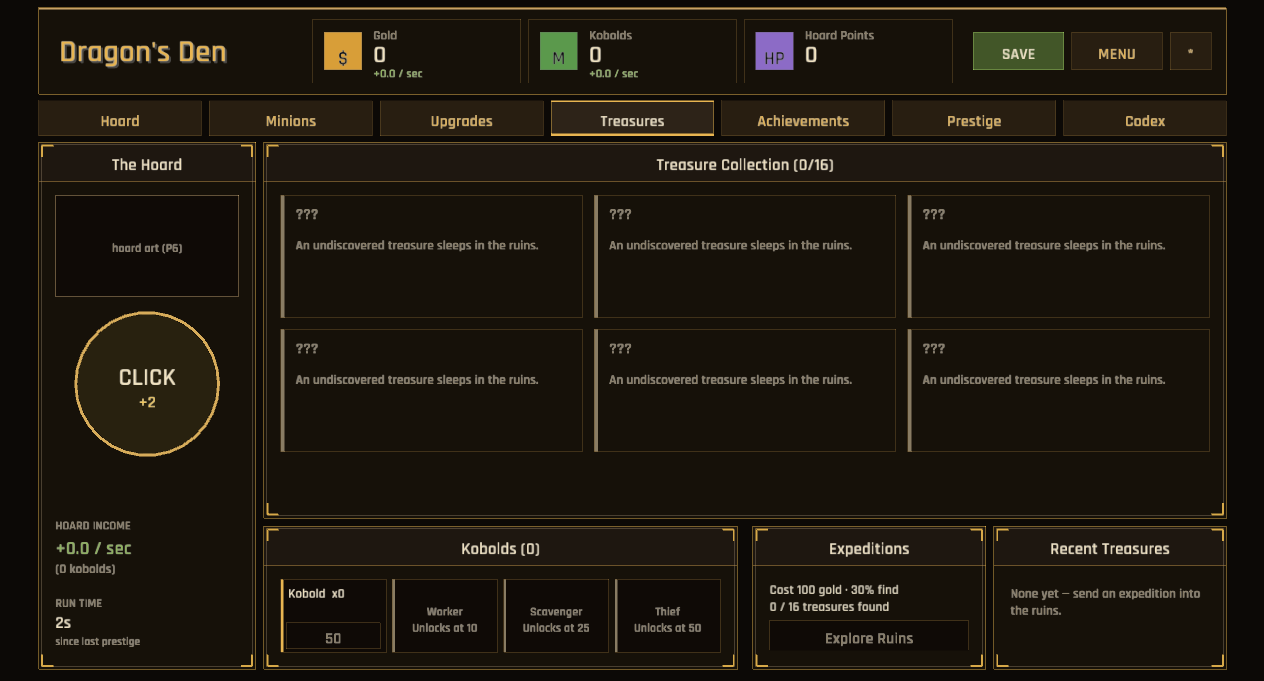
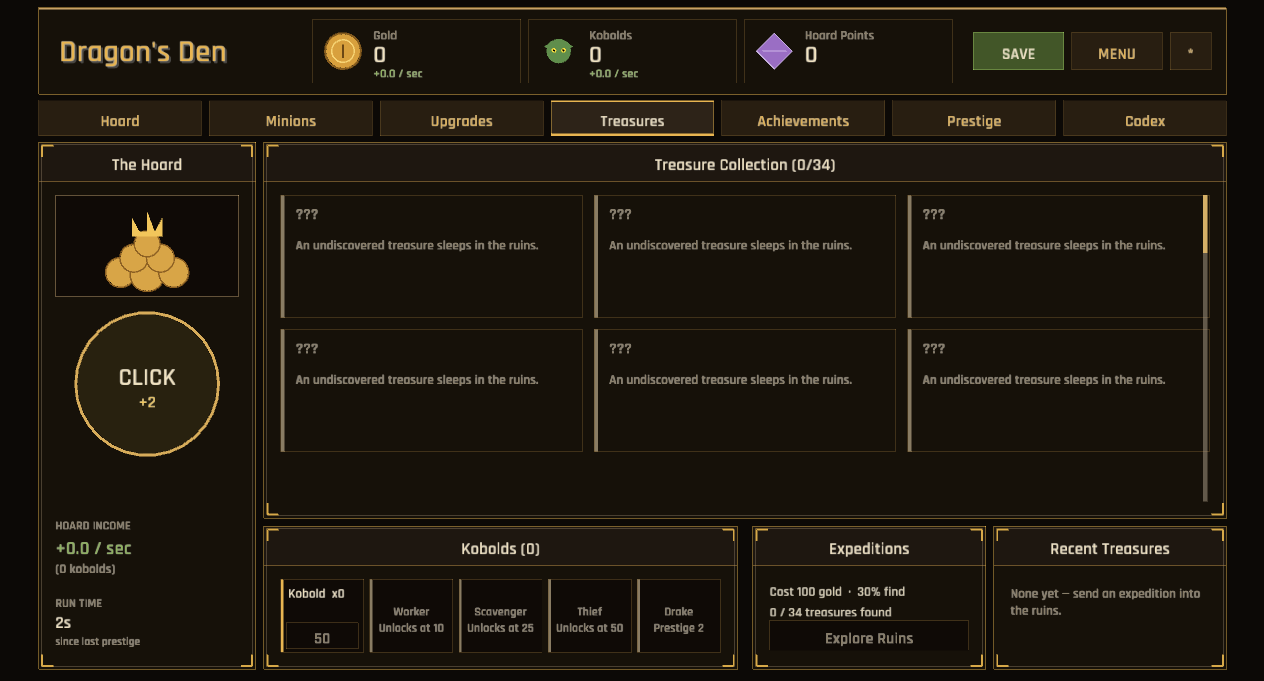
Engagement Tier 2 #8: treasure long tail — prestige-gated Mythic tier
Exploration's treasure set was a 16-item, five-minute sweep with no chase
past the early game. Extend it into a long tail that reopens after every
prestige.

- Catalog 16 -> 34 treasures with a new prestige-gated Mythic rarity
  (rose-pink badge). Deepened the ungated common/rare/epic/legendary pools
  so the base sweep lasts longer, then added 7 Mythics gated across
  prestige 1-4 — including the first `all_gold` treasures (+10/+20/+35%),
  the strongest finds in the game.
- New TreasureDef.prestige_required (serde default 0 → every existing
  treasure ungated, old saves loadable). roll_treasure now filters the
  pool to unlocked+undiscovered; an exhausted-but-gated pool reports
  AllDiscovered ("nothing within reach") so the button waits for the next
  prestige rather than dead-ending.
- Treasures tab renders gated finds as "Sealed · <rarity> · Reach Prestige
  N", turning the tail into a visible chase. AllDiscovered toast reworded
  to stay accurate while gated tiers remain.
- "Treasure Hoarder" achievement retuned 16 → 34 (reward 5 → 25 HP): now a
  genuine prestige-4 capstone instead of an early freebie.

This completes Tier 2. Validation: cargo test (42, incl. a new gating test
asserting the pool locks below the gate and reveals at/above it), clippy,
fmt all clean; balance guards stay green (treasures never enter the sim).
Treasures tab captured (fresh top-of-list committed; Mythic tier verified
via a throwaway scroll seed, reverted) — cards read cleanly, no overflow.

diff --git a/src/simulation/exploration.rs b/src/simulation/exploration.rs
@@ -1,6 +1,8 @@
 //! Expedition treasure rolls (GDD §5.3): a discovery-chance gate, then a
-//! rarity-weighted pick among *undiscovered* treasures — fixing the
-//! original's flat uniform pick that ignored its own rarity tiers.
+//! rarity-weighted pick among *undiscovered, currently-unlocked* treasures —
+//! fixing the original's flat uniform pick that ignored its own rarity tiers.
+//! Prestige-gated finds (#8) only enter the pool once enough hoards are burned,
+//! giving exploration a long tail that reopens after every prestige.
 
 use crate::data::TreasureDef;
 use macroquad_toolkit::rng::SeededRng;
@@ -18,28 +20,33 @@ pub fn roll_treasure<'a>(
     rng: &mut SeededRng,
     treasures: &'a [TreasureDef],
     discovered: &[String],
+    prestige_count: u32,
     chance: f64,
 ) -> ExploreOutcome<'a> {
-    let undiscovered: Vec<&TreasureDef> = treasures
+    // The pool is treasures that are both unlocked at the current prestige and
+    // not yet in the hoard. An exhausted pool with gated finds still remaining
+    // reports `AllDiscovered` — "nothing within reach right now" — so the button
+    // stays quiet until the next prestige reopens it.
+    let available: Vec<&TreasureDef> = treasures
         .iter()
-        .filter(|def| !discovered.contains(&def.id))
+        .filter(|def| def.prestige_required <= prestige_count && !discovered.contains(&def.id))
         .collect();
-    if undiscovered.is_empty() {
+    if available.is_empty() {
         return ExploreOutcome::AllDiscovered;
     }
     if f64::from(rng.next_f32()) >= chance {
         return ExploreOutcome::NothingFound;
     }
 
-    let total_weight: u32 = undiscovered.iter().map(|def| def.drop_weight).sum();
+    let total_weight: u32 = available.iter().map(|def| def.drop_weight).sum();
     let mut roll = rng.below(total_weight.max(1) as usize) as u32;
-    for def in &undiscovered {
+    for def in &available {
         if roll < def.drop_weight {
             return ExploreOutcome::Found(def);
         }
         roll -= def.drop_weight;
     }
-    ExploreOutcome::Found(undiscovered[undiscovered.len() - 1])
+    ExploreOutcome::Found(available[available.len() - 1])
 }
 
 #[cfg(test)]
@@ -53,7 +60,7 @@ mod tests {
         let mut rng = SeededRng::new(7);
         let discovered = vec!["common_stone".to_owned()];
 
-        match roll_treasure(&mut rng, &data.treasures, &discovered, 1.0) {
+        match roll_treasure(&mut rng, &data.treasures, &discovered, 0, 1.0) {
             ExploreOutcome::Found(def) => assert_ne!(def.id, "common_stone"),
             other => panic!("expected a find, got {:?}", other),
         }
@@ -64,7 +71,7 @@ mod tests {
         let data = GameData::load().unwrap();
         let mut rng = SeededRng::new(7);
         assert_eq!(
-            roll_treasure(&mut rng, &data.treasures, &[], 0.0),
+            roll_treasure(&mut rng, &data.treasures, &[], 0, 0.0),
             ExploreOutcome::NothingFound
         );
     }
@@ -75,8 +82,51 @@ mod tests {
         let mut rng = SeededRng::new(7);
         let discovered: Vec<String> = data.treasures.iter().map(|d| d.id.clone()).collect();
         assert_eq!(
-            roll_treasure(&mut rng, &data.treasures, &discovered, 1.0),
+            roll_treasure(&mut rng, &data.treasures, &discovered, u32::MAX, 1.0),
             ExploreOutcome::AllDiscovered
+        );
+    }
+
+    #[test]
+    fn prestige_gate_locks_treasures_until_enough_prestige() {
+        let data = GameData::load().unwrap();
+        // The lowest positive gate in the catalog, and every ungated treasure.
+        let gate = data
+            .treasures
+            .iter()
+            .map(|t| t.prestige_required)
+            .filter(|&p| p > 0)
+            .min()
+            .expect("catalog should include prestige-gated treasures");
+        let ungated: Vec<String> = data
+            .treasures
+            .iter()
+            .filter(|t| t.prestige_required == 0)
+            .map(|t| t.id.clone())
+            .collect();
+
+        // Below the gate, the reachable pool is exhausted → AllDiscovered.
+        let mut rng = SeededRng::new(1);
+        assert_eq!(
+            roll_treasure(&mut rng, &data.treasures, &ungated, gate - 1, 1.0),
+            ExploreOutcome::AllDiscovered
+        );
+
+        // At the gate, the newly-unlocked tier becomes findable.
+        let mut rng = SeededRng::new(2);
+        let mut found_gated = false;
+        for _ in 0..200 {
+            if let ExploreOutcome::Found(def) =
+                roll_treasure(&mut rng, &data.treasures, &ungated, gate, 1.0)
+            {
+                assert!(def.prestige_required <= gate);
+                found_gated = true;
+                break;
+            }
+        }
+        assert!(
+            found_gated,
+            "a gated treasure should be findable once unlocked"
         );
     }
 
@@ -87,7 +137,9 @@ mod tests {
         let mut common = 0;
         let mut legendary = 0;
         for _ in 0..500 {
-            if let ExploreOutcome::Found(def) = roll_treasure(&mut rng, &data.treasures, &[], 1.0) {
+            if let ExploreOutcome::Found(def) =
+                roll_treasure(&mut rng, &data.treasures, &[], 0, 1.0)
+            {
                 match def.id.as_str() {
                     "common_stone" => common += 1,
                     "golden_goblet" => legendary += 1,

diff --git a/src/ui/treasures.rs b/src/ui/treasures.rs
@@ -13,6 +13,7 @@ pub(crate) fn rarity_color(rarity: Rarity) -> Color {
         Rarity::Rare => Color::new(0.35, 0.55, 0.95, 1.0),
         Rarity::Epic => Color::new(0.65, 0.40, 0.90, 1.0),
         Rarity::Legendary => Color::new(0.95, 0.72, 0.35, 1.0),
+        Rarity::Mythic => Color::new(0.98, 0.38, 0.52, 1.0),
     }
 }
 
@@ -66,6 +67,34 @@ pub fn draw(ctx: &GameplayCtx<'_>, rect: Rect, actions: &mut Vec<UiAction>) {
             );
             draw_text_block(
                 &format!("{}\n{}", def.description, ui::effect_text(&def.effect)),
+                card.x + 16.0,
+                card.y + 68.0,
+                card.w - 32.0,
+                h - 76.0,
+                14.0,
+                4.0,
+                theme::TEXT_DIM,
+            );
+        } else if def.prestige_required > ctx.state.persistent.prestige_count {
+            // Gated (#8): reveal the rarity and the prestige needed, so the
+            // long tail reads as a visible chase rather than a blank mystery.
+            draw_ui_text_ex(
+                "Sealed",
+                card.x + 16.0,
+                card.y + 26.0,
+                TextStyle::new(17.0, theme::TEXT_DIM).params(),
+            );
+            draw_badge(
+                Rect::new(card.x + 16.0, card.y + 38.0, 96.0, 24.0),
+                def.rarity.label(),
+                rarity_color(def.rarity),
+                Color::new(0.05, 0.05, 0.06, 1.0),
+            );
+            draw_text_block(
+                &format!(
+                    "Sealed in deeper ruins.\nReach Prestige {} to uncover it.",
+                    def.prestige_required
+                ),
                 card.x + 16.0,
                 card.y + 68.0,
                 card.w - 32.0,

diff --git a/src/data/treasures.rs b/src/data/treasures.rs
@@ -10,6 +10,9 @@ pub enum Rarity {
     Rare,
     Epic,
     Legendary,
+    /// Prestige-gated top tier (engagement review #8): the strongest finds, only
+    /// reachable once the player has burned enough hoards.
+    Mythic,
 }
 
 impl Rarity {
@@ -19,6 +22,7 @@ impl Rarity {
             Rarity::Rare => "Rare",
             Rarity::Epic => "Epic",
             Rarity::Legendary => "Legendary",
+            Rarity::Mythic => "Mythic",
         }
     }
 }
@@ -30,6 +34,12 @@ pub struct TreasureDef {
     pub rarity: Rarity,
     /// Relative weight for the rarity-weighted roll among undiscovered treasures.
     pub drop_weight: u32,
+    /// Prestiges that must be done before this treasure can be found (#8). The
+    /// prestige-gated long tail keeps exploration a chase across many runs.
+    /// `serde(default)` → 0 keeps every existing treasure ungated and old saves
+    /// loadable.
+    #[serde(default)]
+    pub prestige_required: u32,
     pub description: String,
     pub effect: PercentEffect,
 }

diff --git a/src/game.rs b/src/game.rs
@@ -359,7 +359,7 @@ impl Game {
                     .action_log
                     .push(format!("Salvage run sparked a Hoard Rush! x{mult:.0} gold"));
                 self.notifications.success(format!(
-                    "Hoard complete — the salvage run sparks a Hoard Rush! x{mult:.0} income"
+                    "No treasures within reach — a salvage run sparks a Hoard Rush! x{mult:.0} income"
                 ));
             }
             Err(_) => self

diff --git a/src/state/gameplay.rs b/src/state/gameplay.rs
@@ -483,6 +483,7 @@ impl GameplayState {
             &mut self.persistent.rng,
             &data.treasures,
             &self.persistent.discovered_treasures,
+            self.persistent.prestige_count,
             chance,
         );
         // A complete hoard rolls `AllDiscovered` before touching the RNG, so

diff --git a/ENGAGEMENT_REVIEW.md b/ENGAGEMENT_REVIEW.md
@@ -26,8 +26,19 @@ ways to make it entertaining. All numbers are the ones actually shipping in
 > and Explore stays a live, rewarding button for the whole game. The surge is
 > applied in the `GameplayState` income wrappers (not `economy`), keeping the
 > balance sim an honest measure of the core loop. Bottom-bar Expeditions panel
-> shows a live "Hoard Rush x2 · Ns left" readout. Next: **#8** (treasure long
-> tail — rarer, prestige-gated finds), then Tier 3. Rest of Tiers 2–3 open.
+> shows a live "Hoard Rush x2 · Ns left" readout.
+>
+> **Tier 2 #8 (treasure long tail) has landed:** the catalog grew 16 → 34 with
+> a new prestige-gated **Mythic** rarity. `TreasureDef.prestige_required`
+> (`serde(default)` 0) gates the strongest finds; `roll_treasure` filters the
+> pool to unlocked+undiscovered, so exploration reopens after every prestige
+> instead of dead-ending. Mythics span prestige 1–4 (incl. the first
+> `all_gold` treasures: +10/+20/+35%). Treasures tab shows gated cards as
+> "Sealed · Mythic · Reach Prestige N"; "Treasure Hoarder" achievement retuned
+> 16 → 34 (reward 5 → 25 HP) into a real prestige-4 capstone. **Tier 2 is now
+> complete.** Next: **Tier 3 #9** (Golden Hoard active-play burst / Dragon's
+> Frenzy), then #10 (prestige-gated qualitative unlocks) and #11 (soft-caps +
+> wall-breakers).
 
 ---
 
